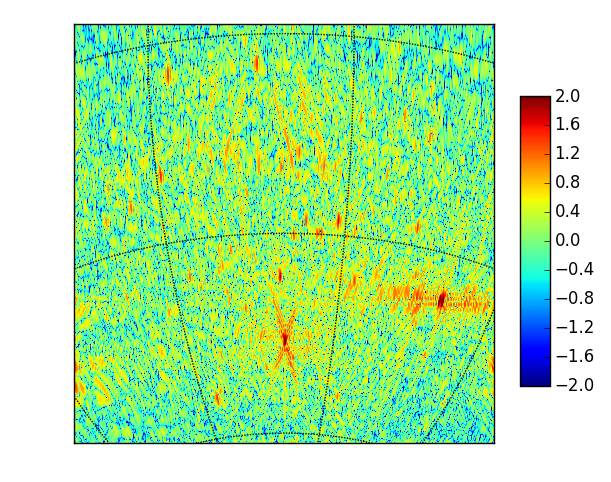
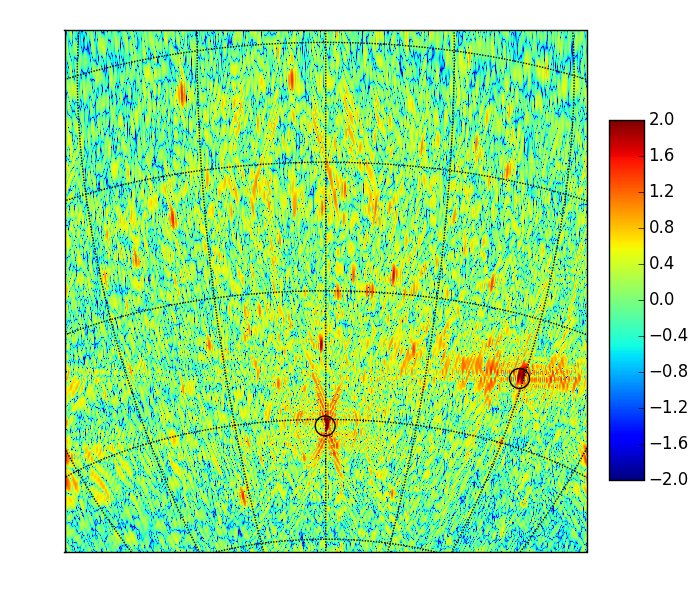
update plots and scripts.
minor tweaks to captions and section headings

diff --git a/psa64_pspec_ver2.tex b/psa64_pspec_ver2.tex
@@ -514,7 +514,8 @@ applied to visibilities and the results are shown in \ref{fig:omniview}.
 \centering
 \includegraphics[width=1.5\columnwidth]{plots/omniview_64.png}
 \caption{
-[XXX what are units of color scale?]
+%[XXX what are units of color scale?] There are none. It represents different
+%redundant baselines.
 PAPER visibilities plotted in the complex plane before (left) and after (right)
 the application of redundancy-based calibration with Omnical \citep{zheng_et_al2014}.
 All baselines in the array measured at 159 MHz for a single time integration are plotted.
@@ -528,11 +529,11 @@ calibration.  Residuals are consistent with thermal noise.
 \centering
 \includegraphics[width=\columnwidth]{plots/chi2.png}
 \caption{
-[XXX trim out band edges]
 $\chi^{2}$ of all baseline residuals after the application of Omnical.
 The plot comprises a observations over one day, with a frequency resolution of
 49 kHz and a time resolution of 42.9 s.
-[XXX is this before or after compression?  df and dt are one of each.]
+%[XXX is this before or after compression?  df and dt are one of each.] After. I
+%dont understand this.
 } \label{fig:chi2}
 \end{figure}
 
@@ -653,12 +654,13 @@ the calibrated Pictor A spectrum and the model spectrum from
 
 \begin{figure}[!t]
 \centering
-\includegraphics[width=\columnwidth]{plots/picimg.png}
+\includegraphics[width=\columnwidth]{plots/picimg_cs.png}
 \caption{
 [XXX need image coordinates, add circles for catalog positions of For, Pic]
 PAPER-64 image of a field including Pictor A and Fornax A, with black circles
-indicating catalog positions \citep{XXX}.
-[XXX report bandwidth, time range used in imaging].
+indicating catalog positions \citep{XXX}. Two hours of data used while Pictor A
+in transit.
+[XXX report bandwidth].
 Image quality is limited by the redundant configuration of the array (e.g. grating lobes
 as a result of periodic antenna spacing, elongated lobes
 arising from poor uv-coverage in the north-south direction).  Nonetheless, this image
@@ -675,12 +677,12 @@ demonstrates accurate phase calibration over a wide field of view.
 Measured spectrum of Pictor A in Stokes I (blue) relative to its catalog
 value (black; \citealt{jacobs_et_al2013}).  Flux measurements were
 extracted from images of Pictor A, made independently for each frequency channel in
-XXX s snapshots as Pictor transitted between hour angles of XXX and XXX.  
-Each measurement was then divided by the PAPER beam model and averaged to
-obtain the measured spectrum, which serves to characterize the flux scale
-of the PAPER-64 observations.  Error bars indicate 95\% confidence intervals,
-derived from the distribution of measurements used in the average.
-[XXX check this last statement].
+10 minutes snapshots as Pictor transitted between hour angles of -1:49:35.18
+and 1:10:34.47.  Each measurement was then divided by the PAPER beam model and
+averaged to obtain the measured spectrum, which serves to characterize the flux
+scale of the PAPER-64 observations. Error bars indicate the 95\% confidence
+intervals, derived from the gaussian fits in the source extractor used in
+measure the flux in PyBDSM.
 }\label{fig:pic_spec}
 \end{figure}
 
@@ -1420,7 +1422,7 @@ covariance matrices.
 %   -Counting of independent modes.
 %       --Number of independent modes = 2*#of lst hours used in analysis. This
 %         is because 1900 seconds ~ 30 minutes.
-\subsubsection{Review of Optimal Quadratic Estimators}
+\subsection{Review of Optimal Quadratic Estimators}
 We use the optimal quadratic estimator method to estimate our power spectrum as
 done in \cite{dillon_et_al2013a} and \cite{liu_tegmark2011}.  Here we briefly review the
 optimal quadratic esitimator (OQE) formalism with an emphasis on our application
@@ -1554,7 +1556,7 @@ where $\mathbf{F}$ is the Fisher matrix. The error correlation matrix describes
 how correlated the errors between modes are in the final power spectrum result.
 
 
-\subsubsection{Application of Optimal Quadratic Estimators}
+\subsection{Application of Optimal Quadratic Estimators}
 \label{sec:oqe_app}
 % A walk through of the application to the data.
 

diff --git a/plots/plot_picimg.py b/plots/plot_picimg.py
@@ -2,6 +2,7 @@
 """
 This is a general-purpose script for plotting simple FITS images.
 """
+#Make plot and add labels in photoshop
 
 import aipy as a, sys, optparse, os
 import numpy as n, pylab as p, ephem, math
@@ -26,6 +27,7 @@ opts, args = o.parse_args(sys.argv[1:])
 
 opts.drng = 4
 opts.max = 2
+#opts.nogrid=True
 
 args = ['data/gianni/all_psa64-image.fits']
 
@@ -93,7 +95,7 @@ for cnt, filename in enumerate(args):
     else: min = d.min()
 
 #    fig = p.figure(figsize=(4.5,4.5))
-    fig = p.figure()
+    fig = p.figure(figsize=(7,6))
     p.subplot(m2, m1, cnt+1)
     if not opts.nogrid:
         from mpl_toolkits.basemap import Basemap
@@ -103,25 +105,31 @@ for cnt, filename in enumerate(args):
         dx2 = (xpx/2 - .5) * kwds['d_ra'] * a.img.deg2rad
         dy1 = -(ypx/2 + .5) * kwds['d_dec'] * a.img.deg2rad
         dy2 = (ypx/2 - .5) * kwds['d_dec'] * a.img.deg2rad
-        map = Basemap(projection='ortho', lon_0=kwds['ra'], lat_0=kwds['dec'],
+        kwds['ra']= 80 # overwriting keyword which is 79.95708. Difference is < 1''
+        map = Basemap(projection='ortho', lon_0=kwds['ra']-100, lat_0=kwds['dec'],
             rsphere=1, llcrnrx=dx1, llcrnry=dy1, urcrnrx=dx2,urcrnry=dy2, celestial=True)
-        map.drawmeridians(n.arange(kwds['ra']-180,kwds['ra']+180,15), labels=[False,False,False,True])
-        map.drawparallels(n.arange(-90,120,15), labels=[False,True,True,False])
+        map.drawmeridians(n.arange(kwds['ra']-180,kwds['ra']+180,15), labels=[False,False,False,False])
+        map.drawparallels(n.arange(-90,120,15), labels=[False,False,False,False])
         map.drawmapboundary()
         im1 = map.imshow(d, vmin=min, vmax=max, cmap=cmap, interpolation='nearest')
 
         picdec = -45.78
-        picra = -80.09
-        picdec = -37.2083
-        picra = -50.6708
-        x,y = map(picra, picdec)
-        circ = Circle((x,y), radius=.01, facecolor='none',edgecolor='black' )
-        p.gca().add_patch(circ)
+        picra = -80.09 + 100
+        fordec = -37.2083
+        forra = -50.6708 + 100
+        picx,picy = map(picra, picdec)
+        forx,fory = map(forra, fordec)
+        pic_circ = Circle((picx,picy), radius=.02, facecolor='none',edgecolor='black' )
+        for_circ = Circle((forx,fory), radius=.02, facecolor='none',edgecolor='black' )
+        p.gca().add_patch(pic_circ)
+        p.gca().add_patch(for_circ)
 
     else: im1 = p.imshow(d, vmin=min, vmax=max, origin='lower', cmap=cmap, interpolation='nearest')
 
+#    p.xlabel('Right ascension [deg]')
+#    p.ylabel('Declination [deg]')
     fig.subplots_adjust(left=.08, top=.95, bottom=.08, wspace=.3, hspace=.1, right=.85)
-    cbar_ax1 = fig.add_axes([0.85, 0.20, 0.05, 0.6])
+    cbar_ax1 = fig.add_axes([0.87, 0.20, 0.05, 0.6])
     fig.colorbar(im1, cax=cbar_ax1)
 #    p.colorbar(shrink=.5, fraction=.05)
     #p.title(filename)
@@ -139,6 +147,7 @@ def click(event):
     if not event.button in [2,3]: return
     if not opts.nogrid:
         lon,lat = map(event.xdata, event.ydata, inverse=True)
+        print lon, lat
         lon = (180 + kwds['ra'] - lon) % 360
         lon *= a.img.deg2rad; lat *= a.img.deg2rad
         ra,dec = ephem.hours(lon), ephem.degrees(lat)

diff --git a/plots/plot_omniview.py b/plots/plot_omniview.py
@@ -8,17 +8,17 @@ for plot_i, datagrps in enumerate(f['arr_0']):
 
     #plt.subplot('12%i'%(2-plot_i))
     for (data, marker, color, blvec) in datagrps:
-        axes[plot_i].scatter(np.real(data), np.imag(data), marker = marker, color=color)
+        axes[plot_i].scatter(np.real(data)/1000., np.imag(data)/1000, marker = marker, color=color)
         axes[plot_i].set(adjustable='datalim', aspect=1)#set_aspect(1)
         axes[plot_i].grid(True)
-plt.axis(8000*np.array([-1, 1, -1, 1]))
+plt.axis(8*np.array([-1, 1, -1, 1]))
 #plt.xlabel('Real [Jy]', size='Large')
 #plt.ylabel('Imaginary [Jy]', size='Large')
-axes[0].set_ylabel('Imaginary [Jy]', size='large')
-axes[0].set_xlabel('Real [Jy]', size='large')
+axes[0].set_ylabel('Imaginary [kJy]', size='large')
+axes[0].set_xlabel('Real [kJy]', size='large')
 axes[0].set_title('Rough Calibration',size='large')
 #axes[1].set_ylabel('Imaginary [Jy]', size='large')
-axes[1].set_xlabel('Real [Jy]', size='large')
+axes[1].set_xlabel('Real [kJy]', size='large')
 axes[1].set_title('Omnical',size='large')
 
 plt.show()

diff --git a/plots/plot_chi2.py b/plots/plot_chi2.py
@@ -16,9 +16,12 @@ ax1 = p.subplot(1,1,1)
 #ax.imshow(n.transpose(f['arr_0']), vmin = 0, vmax = 3, extent=[lsts[0], lsts[1],100,200], interpolation = 'none')
 print n.max(n.where(f['arr_0'])), n.min(n.where(f['arr_0']))
 print n.mean(n.where(f['arr_0']))
+wfall = f['arr_0']
+print wfall.shape
+wfall = f['arr_0'][:,15:-16]
 #capo.arp.waterfall(n.transpose(f['arr_0']), mx=300, drng=100,  extent=[lsts[0], lsts[1], 100, 200], mode='lin'); p.colorbar(shrink=.5)
 #im1 = capo.arp.waterfall(n.transpose(f['arr_0']), mx=.5, drng=.5, extent=[startlst,endlst, 100, 200], mode='log'); p.colorbar(shrink=.5)
-im1 = p.imshow(n.log10(n.abs(n.transpose(f['arr_0']))), vmax=.5, vmin=0, extent=[startlst,endlst, 100, 200], interpolation='nearest', aspect='auto')
+im1 = p.imshow(n.log10(n.abs(n.transpose(wfall))), vmax=.5, vmin=0, extent=[startlst,endlst, 107, 192.5], interpolation='nearest', aspect='auto')
 p.xlabel('LST [ Hours ]')
 p.ylabel('Frequency [ MHz ]')
 

diff --git a/plots/plot_pspec_variance.py b/plots/plot_pspec_variance.py
@@ -58,7 +58,7 @@ med_var /= SHUFFLES
 p.figure(figsize=(7.5,4))
 
 #cmap = p.get_cmap('jet')
-cmap = p.get_cmap('brg')
+cmap = p.get_cmap('rainbow')
 #for cnt, kpl in enumerate(xrange(1,pk_2d.shape[-1])):
 for cnt in xrange(0,pk_2d.shape[-1]):
     k = n.abs(kpl[cnt])
@@ -84,5 +84,5 @@ p.title('Median')
 p.xlabel('Modes integrated')
 p.setp(p.gca().get_yticklabels(), visible=False)
 
-p.subplots_adjust(left=.12,bottom=.10,top=.90,right=.95)
+p.subplots_adjust(left=.12,bottom=.15,top=.90,right=.95)
 p.show()
